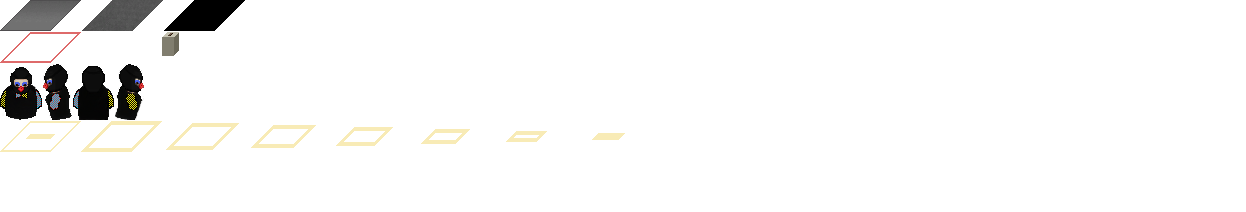
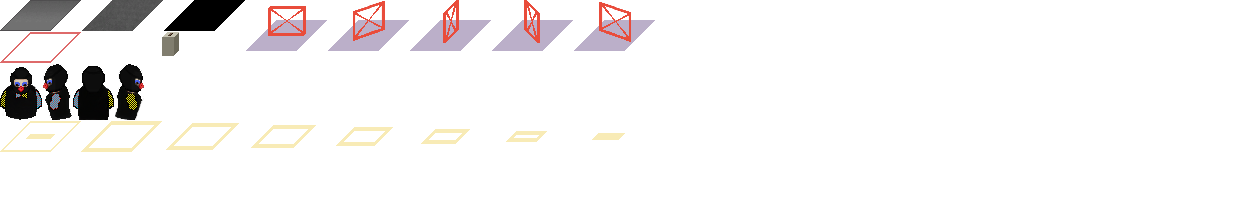
Add gates related resources

Changed region(s): [[0.183, 0.0, 0.549, 0.2547]]

diff --git a/include/utils/resource_manager.hpp b/include/utils/resource_manager.hpp
@@ -31,15 +31,12 @@ class resource_manager {
 	} m_tiles_infos;
 
 public:
-
 	enum class mob_id {
-		player = MOBS_PLAYERID,
+		player    = MOBS_PLAYERID,
 		scientist = MOBS_SCIENTISTID,
 	};
 
-	enum class object_id {
-		button = OBJECTS_BUTTONID,
-	};
+	enum class object_id { button = OBJECTS_BUTTONID, gate = OBJECTS_GATEID };
 
 	enum class tile_id {
 		chasm    = TILES_CHASMID,
@@ -51,7 +48,7 @@ public:
 
 	[[nodiscard]] bool load_config(const std::filesystem::path &path) noexcept;
 
-    [[nodiscard]] bool reload(const std::filesystem::path &path) noexcept {
+	[[nodiscard]] bool reload(const std::filesystem::path &path) noexcept {
 		resource_manager new_config{};
 		if (new_config.load_config(path)) {
 			*this = std::move(new_config);
@@ -66,7 +63,7 @@ public:
 
 	[[nodiscard]] utils::optional<const view::mob_animations &> mob_animations(mob_id) const noexcept;
 
-    [[nodiscard]] std::optional<std::pair<std::string_view, std::string_view>> text_for(command_id) const noexcept;
+	[[nodiscard]] std::optional<std::pair<std::string_view, std::string_view>> text_for(command_id) const noexcept;
 
 	[[nodiscard]] const tiles_infos_t &tiles_infos() const noexcept {
 		return m_tiles_infos;
@@ -83,10 +80,10 @@ private:
 
 	[[nodiscard]] bool load_objects_anims(const std::shared_ptr<cpptoml::table> &objects_config) noexcept;
 
-	[[nodiscard]] bool load_texts(const std::shared_ptr<cpptoml::table>& config, const std::filesystem::path& resources_directory) noexcept;
-	[[nodiscard]] bool load_command_texts(const std::shared_ptr<cpptoml::table>& lang_file) noexcept;
+	[[nodiscard]] bool load_texts(const std::shared_ptr<cpptoml::table> &config, const std::filesystem::path &resources_directory) noexcept;
+	[[nodiscard]] bool load_command_texts(const std::shared_ptr<cpptoml::table> &lang_file) noexcept;
 
-	sf::Texture* get_texture(const std::string& file) noexcept;
+	sf::Texture *get_texture(const std::string &file) noexcept;
 
 	std::unordered_map<std::string, sf::Texture *> m_textures_by_file{};
 	std::forward_list<sf::Texture> m_textures_holder{};
